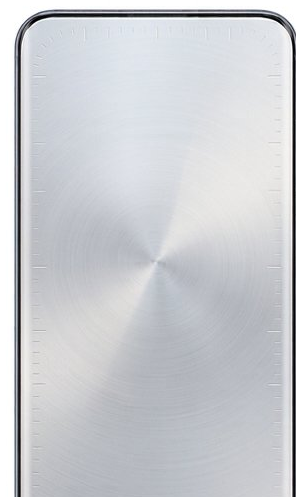
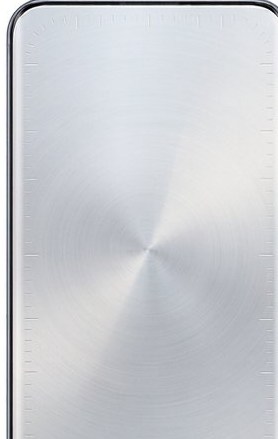
Fix: center text ON knob, bigger knob (88% width), clean background crop

diff --git a/lib/screens/home_screen.dart b/lib/screens/home_screen.dart
@@ -256,44 +256,54 @@ class _HomeScreenState extends State<HomeScreen> with TickerProviderStateMixin {
                   ]),
                 ),
 
-                // THE KNOB - gold image that rotates
+                // THE KNOB - gold image that rotates with text centered on it
                 Expanded(
                   child: LayoutBuilder(builder: (context, constraints) {
                     final center = Offset(constraints.maxWidth / 2, constraints.maxHeight / 2);
+                    final knobDisplaySize = constraints.maxWidth * 0.88;
                     return GestureDetector(
                       onPanStart: (d) => _onKnobPanStart(d, center),
                       onPanUpdate: (d) => _onKnobPanUpdate(d, center),
                       onPanEnd: _onKnobPanEnd,
-                      child: Stack(
-                        alignment: Alignment.center,
-                        children: [
-                          // Gold knob image (rotates)
-                          Transform.rotate(
-                            angle: _rotation,
-                            child: Image.asset('assets/images/knob_gold.png', width: knobSize, height: knobSize, fit: BoxFit.contain),
+                      child: Container(
+                        color: Colors.transparent,
+                        child: Center(
+                          child: SizedBox(
+                            width: knobDisplaySize,
+                            height: knobDisplaySize,
+                            child: Stack(
+                              alignment: Alignment.center,
+                              children: [
+                                // Gold knob image (rotates)
+                                Transform.rotate(
+                                  angle: _rotation,
+                                  child: Image.asset('assets/images/knob_gold.png', width: knobDisplaySize, height: knobDisplaySize, fit: BoxFit.contain),
+                                ),
+                                // Text overlay centered ON the knob
+                                _showSuccess
+                                  ? Column(mainAxisSize: MainAxisSize.min, children: [
+                                      Text('SENT!', style: GoogleFonts.cinzel(fontSize: 42, fontWeight: FontWeight.w800, color: const Color(0xFF27AE60), letterSpacing: 4)),
+                                      const Icon(Icons.check_rounded, color: Color(0xFF27AE60), size: 48),
+                                    ])
+                                  : ShaderMask(
+                                      shaderCallback: (bounds) {
+                                        final fillStop = 1.0 - progress;
+                                        return LinearGradient(
+                                          begin: Alignment.topCenter, end: Alignment.bottomCenter,
+                                          colors: [darkGold, darkGold, const Color(0xFF27AE60), const Color(0xFF27AE60)],
+                                          stops: [0.0, fillStop, fillStop, 1.0],
+                                        ).createShader(bounds);
+                                      },
+                                      blendMode: BlendMode.srcIn,
+                                      child: Column(mainAxisSize: MainAxisSize.min, children: [
+                                        Text('I AM', style: GoogleFonts.cinzel(fontSize: 36, fontWeight: FontWeight.w600, color: Colors.white, letterSpacing: 8)),
+                                        Text('OKAY!', style: GoogleFonts.cinzel(fontSize: 64, fontWeight: FontWeight.w900, color: Colors.white, letterSpacing: 6, height: 0.85)),
+                                      ]),
+                                    ),
+                              ],
+                            ),
                           ),
-                          // Text overlay (stays upright)
-                          _showSuccess
-                            ? Column(mainAxisSize: MainAxisSize.min, children: [
-                                Text('SENT!', style: GoogleFonts.cinzel(fontSize: 40, fontWeight: FontWeight.w800, color: const Color(0xFF27AE60), letterSpacing: 4)),
-                                const Icon(Icons.check_rounded, color: Color(0xFF27AE60), size: 44),
-                              ])
-                            : ShaderMask(
-                                shaderCallback: (bounds) {
-                                  final fillStop = 1.0 - progress;
-                                  return LinearGradient(
-                                    begin: Alignment.topCenter, end: Alignment.bottomCenter,
-                                    colors: [darkGold, darkGold, const Color(0xFF27AE60), const Color(0xFF27AE60)],
-                                    stops: [0.0, fillStop, fillStop, 1.0],
-                                  ).createShader(bounds);
-                                },
-                                blendMode: BlendMode.srcIn,
-                                child: Column(mainAxisSize: MainAxisSize.min, children: [
-                                  Text('I AM', style: GoogleFonts.cinzel(fontSize: 38, fontWeight: FontWeight.w600, color: Colors.white, letterSpacing: 8)),
-                                  Text('OKAY!', style: GoogleFonts.cinzel(fontSize: 68, fontWeight: FontWeight.w900, color: Colors.white, letterSpacing: 6, height: 0.85)),
-                                ]),
-                              ),
-                        ],
+                        ),
                       ),
                     );
                   }),